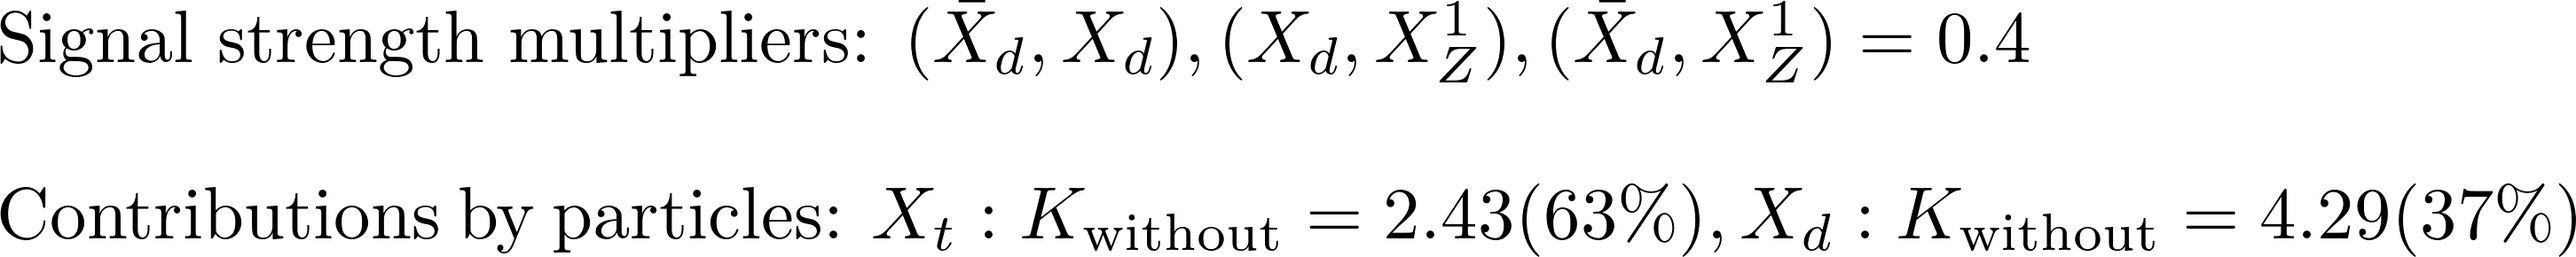
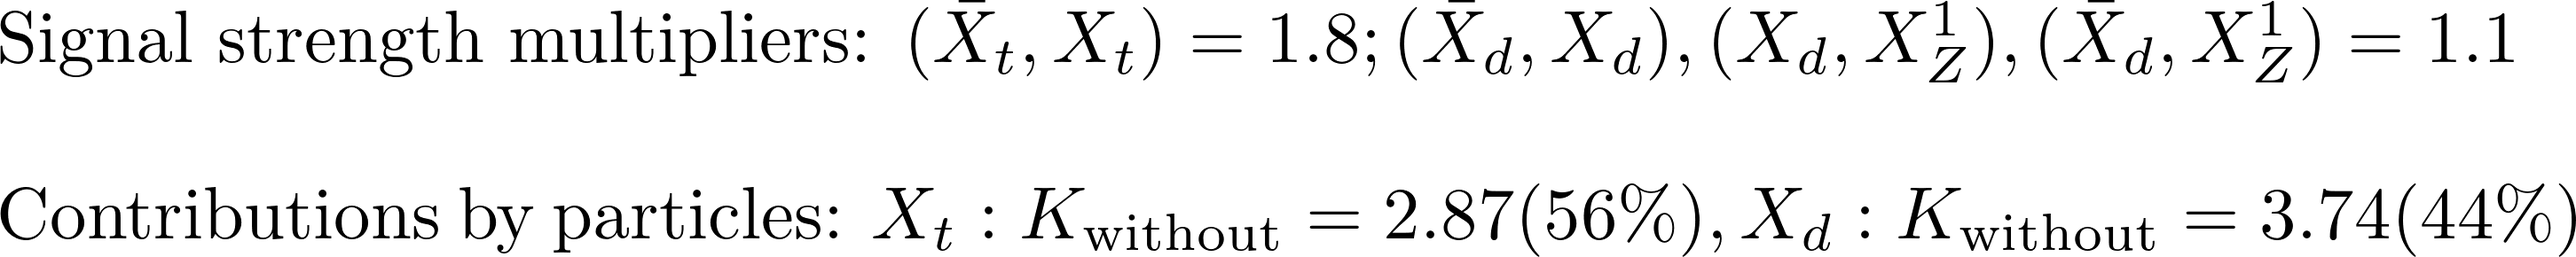
automated update by plotHiscore.py to /scratch-cbe/users/wolfgan.waltenberger/git/smodels.github.io/protomodels/2020_PioneerStudy/real6//

diff --git a/protomodels/2020_PioneerStudy/real6/index.html b/protomodels/2020_PioneerStudy/real6/index.html
@@ -1,30 +1,30 @@
 <html>
 <body>
 <center>
-<table><td><h1>Current best protomodel: K=6.96</h1><td><img height=60px src=https://smodels.github.io/pics/banner.png></table>
+<table><td><h1>Current best protomodel: K=6.77</h1><td><img height=60px src=https://smodels.github.io/pics/banner.png></table>
 </center>
-<b><a href=./hiscore.slha>ProtoModel</a> <a href=./pmodel.py>(dict)</a> produced with <a href=https://smodels.github.io/docs/Validation124>database v1.2.4</a>, combination strategy <a href=./matrix_aggressive.png>aggressive</a> in walker 46 step 660.</b> K plots for: <a href=./M1000022.png?9865417>X<sub>Z</sub><sup>1</sup></a>, <a href=./M1000006.png?9865417>X<sub>t</sub></a>, <a href=./M1000001.png?9865417>X<sub>d</sub></a>. HPD plots for: <a href=./llhd1000006.png?9865417>X<sub>t</sub></a>, <a href=./llhd1000001.png?9865417>X<sub>d</sub></a>. SSM plots for: <a href=./ssm_-1000006_1000006.png?9865417>(x&#772;<sub>t</sub>,X<sub>t</sub>)</a><br>
+<b><a href=./hiscore.slha>ProtoModel</a> <a href=./pmodel.py>(dict)</a> produced with <a href=https://smodels.github.io/docs/Validation124>database v1.2.4</a>, combination strategy <a href=./matrix_aggressive.png>aggressive</a> in walker 4 step 215.</b> K plots for: <a href=./M1000022.png?13243788>X<sub>Z</sub><sup>1</sup></a>, <a href=./M1000006.png?13243788>X<sub>t</sub></a>, <a href=./M1000001.png?13243788>X<sub>d</sub></a>. HPD plots for: <a href=./llhd1000006.png?13243788>X<sub>t</sub></a>, <a href=./llhd1000001.png?13243788>X<sub>d</sub></a>. SSM plots for: <a href=./ssm_-1000006_1000006.png?13243788>(x&#772;<sub>t</sub>,X<sub>t</sub>)</a><br>
 <table width=80%>
 <tr><td>
-<br><b>24 predictions available. Highest r values are:</b><br><ul>
-<li><a href=http://cms-results.web.cern.ch/cms-results/public-results/publications/SUS-19-006/index.html>CMS-SUS-19-006</a>:T2 r=1.30, r<sub>exp</sub>=1.09<br>
-<li><a href=http://cms-results.web.cern.ch/cms-results/public-results/publications/SUS-16-033/index.html>CMS-SUS-16-033</a>:T2 r=1.21, r<sub>exp</sub>=0.83<br>
-<li><a href=http://cms-results.web.cern.ch/cms-results/public-results/publications/SUS-19-006/index.html>CMS-SUS-19-006</a>:T2tt r=1.08, r<sub>exp</sub>=1.07<br>
-<li><a href=http://cms-results.web.cern.ch/cms-results/public-results/publications/SUS-16-036/index.html>CMS-SUS-16-036</a>:T2 r=0.89, r<sub>exp</sub>=0.74<br>
-<li><a href=http://cms-results.web.cern.ch/cms-results/public-results/publications/SUS-16-051/index.html>CMS-SUS-16-051</a>:T2tt r=0.74, r<sub>exp</sub>=0.48<br>
+<br><b>18 predictions available. Highest r values are:</b><br><ul>
+<li><a href=http://cms-results.web.cern.ch/cms-results/public-results/publications/SUS-19-006/index.html>CMS-SUS-19-006</a>:T2 r=1.30, r<sub>exp</sub>=1.13<br>
+<li><a href=http://cms-results.web.cern.ch/cms-results/public-results/publications/SUS-19-006/index.html>CMS-SUS-19-006</a>:T2tt r=1.30, r<sub>exp</sub>=1.27<br>
+<li><a href=http://cms-results.web.cern.ch/cms-results/public-results/publications/SUS-16-033/index.html>CMS-SUS-16-033</a>:T2 r=1.10, r<sub>exp</sub>=0.82<br>
+<li><a href=http://cms-results.web.cern.ch/cms-results/public-results/publications/SUS-16-036/index.html>CMS-SUS-16-036</a>:T2 r=0.79, r<sub>exp</sub>=0.77<br>
+<li><a href=https://atlas.web.cern.ch/Atlas/GROUPS/PHYSICS/PAPERS/SUSY-2016-15/>ATLAS-SUSY-2016-15</a>:T2tt r=0.65, r<sub>exp</sub>=N/A<br>
 </ul>
 <td><br><b>K values without analyses: (contribution)</b><br>
 <ul>
-<li> <a href=https://twiki.cern.ch/twiki/bin/view/CMSPublic/PhysicsResultsSUS13012>CMS-SUS-13-012</a>: 3.46 (15%)
-<li> <a href=http://cms-results.web.cern.ch/cms-results/public-results/publications/SUS-16-050/index.html>CMS-SUS-16-050</a>: 3.46 (15%)
-<li> <a href=https://atlas.web.cern.ch/Atlas/GROUPS/PHYSICS/PAPERS/SUSY-2013-02/>ATLAS-SUSY-2013-02</a>: 3.37 (15%)
-<li> <a href=https://atlas.web.cern.ch/Atlas/GROUPS/PHYSICS/PAPERS/SUSY-2016-16/>ATLAS-SUSY-2016-16</a>: 1.22 (24%)
-<li> <a href=https://atlas.web.cern.ch/Atlas/GROUPS/PHYSICS/PAPERS/SUSY-2016-07/>ATLAS-SUSY-2016-07</a>: -0.78 (32%)
-<td><img width=600px src=./texdoc.png?1602865417>
-<br><font size=-1>Last updated: Fri Oct 16 18:23:37 2020</font>
+<li> <a href=https://twiki.cern.ch/twiki/bin/view/CMSPublic/PhysicsResultsSUS13012>CMS-SUS-13-012</a>: 3.34 (15%)
+<li> <a href=http://cms-results.web.cern.ch/cms-results/public-results/publications/SUS-16-050/index.html>CMS-SUS-16-050</a>: 3.34 (15%)
+<li> <a href=https://atlas.web.cern.ch/Atlas/GROUPS/PHYSICS/PAPERS/SUSY-2013-02/>ATLAS-SUSY-2013-02</a>: 3.29 (15%)
+<li> <a href=https://atlas.web.cern.ch/Atlas/GROUPS/PHYSICS/PAPERS/SUSY-2016-16/>ATLAS-SUSY-2016-16</a>: 1.13 (24%)
+<li> <a href=https://atlas.web.cern.ch/Atlas/GROUPS/PHYSICS/PAPERS/SUSY-2016-07/>ATLAS-SUSY-2016-07</a>: -0.87 (32%)
+<td><img width=600px src=./texdoc.png?1606243788>
+<br><font size=-1>Last updated: Tue Nov 24 19:49:48 2020</font>
 </table><table style="width:80%">
-<td width=45%><img height=580px src=./ruler.png?1602865417><td width=55%><img height=380px src=./decays.png?1602865417>
-<font size=-3><iframe type="text/html" height="220px" width="100%s" frameborder="0" src="./rawnumbers.html?1602865417"></iframe></font>
+<td width=45%><img height=580px src=./ruler.png?1606243788><td width=55%><img height=380px src=./decays.png?1606243788>
+<font size=-3><iframe type="text/html" height="220px" width="100%s" frameborder="0" src="./rawnumbers.html?1606243788"></iframe></font>
 </table>
 </body>
 </html>

diff --git a/protomodels/2020_PioneerStudy/real6/rawnumbers.html b/protomodels/2020_PioneerStudy/real6/rawnumbers.html
@@ -4,6 +4,6 @@
 <tr><td><a href=https://atlas.web.cern.ch/Atlas/GROUPS/PHYSICS/PAPERS/SUSY-2013-02/>ATLAS-SUSY-2013-02</a></td><td>em</td> <td>SR6jtp</td><td>T2</td><td>6</td><td>4.9 +/- 1.6</td><td style="text-align:right">0.4 &sigma;</td><td style="text-align:right">X<sub>d</sub></td></tr>
 <tr><td><a href=https://atlas.web.cern.ch/Atlas/GROUPS/PHYSICS/PAPERS/SUSY-2016-07/>ATLAS-SUSY-2016-07</a></td><td>em</td> <td>2j_Meff_1200</td><td>T2</td><td>611</td><td>526 +/- 31</td><td style="text-align:right">2.2 &sigma;</td><td style="text-align:right">X<sub>d</sub></td></tr>
 <tr><td><a href=https://atlas.web.cern.ch/Atlas/GROUPS/PHYSICS/PAPERS/SUSY-2016-16/>ATLAS-SUSY-2016-16</a></td><td>em</td> <td>tN_high</td><td>T2tt</td><td>8</td><td>3.8 +/- 1</td><td style="text-align:right">1.9 &sigma;</td><td style="text-align:right">X<sub>t</sub></td></tr>
-<tr><td><a href=https://twiki.cern.ch/twiki/bin/view/CMSPublic/PhysicsResultsSUS13012>CMS-SUS-13-012</a></td><td>ul</td> <td>-</td><td>T2</td><td> 31.5 fb </td><td> 20.6 fb</td><td style="text-align:right">1.0 &sigma;</td><td style="text-align:right">X<sub>d</sub></td></tr>
-<tr><td><a href=http://cms-results.web.cern.ch/cms-results/public-results/publications/SUS-16-050/index.html>CMS-SUS-16-050</a></td><td>ul</td> <td>-</td><td>T2tt</td><td> 4.6 fb </td><td> 2.5 fb</td><td style="text-align:right">1.7 &sigma;</td><td style="text-align:right">X<sub>t</sub></td></tr>
+<tr><td><a href=https://twiki.cern.ch/twiki/bin/view/CMSPublic/PhysicsResultsSUS13012>CMS-SUS-13-012</a></td><td>ul</td> <td>-</td><td>T2</td><td> 20.6 fb </td><td> 12.6 fb</td><td style="text-align:right">1.3 &sigma;</td><td style="text-align:right">X<sub>d</sub></td></tr>
+<tr><td><a href=http://cms-results.web.cern.ch/cms-results/public-results/publications/SUS-16-050/index.html>CMS-SUS-16-050</a></td><td>ul</td> <td>-</td><td>T2tt</td><td> 4.7 fb </td><td> 2.6 fb</td><td style="text-align:right">1.5 &sigma;</td><td style="text-align:right">X<sub>t</sub></td></tr>
 </table>

diff --git a/protomodels/2020_PioneerStudy/real6/pmodel.py b/protomodels/2020_PioneerStudy/real6/pmodel.py
@@ -1,1 +1,1 @@
-{'masses': {1000022: 103.219, 1000001: 714.35, 1000006: 1152.509}, 'ssmultipliers': {(1000022, 1000022): 0.015, (1000001, 1000001): 0.396, (-1000001, 1000001): 0.396, (-1000001, -1000001): 0.396, (1000001, 1000022): 0.396, (-1000001, 1000022): 0.396, (1000006, 1000006): 0.998, (-1000006, 1000006): 0.998, (-1000006, -1000006): 0.998, (1000006, 1000022): 0.998, (-1000006, 1000022): 0.998, (1000001, 1000006): 0.998, (-1000006, 1000001): 0.998, (-1000001, 1000006): 0.998, (-1000006, -1000001): 0.998}, 'decays': {1000022: {}, 1000001: {(1000022, 1): 1.0}, 1000006: {(1000022, 6): 1.0}}, 'timestamp': 'Fri Oct 16 18:23:04 2020', 'Z': 3.242, 'K': 6.958, 'walkerid': 46, 'step': 660, 'codever': '1.0', 'dbver': '1.2.4'}
+{'masses': {1000022: 305.215, 1000006: 1215.171, 1000001: 880.436}, 'ssmultipliers': {(1000022, 1000022): 0.112, (1000006, 1000006): 1.828, (-1000006, 1000006): 1.828, (-1000006, -1000006): 1.828, (1000006, 1000022): 1.828, (-1000006, 1000022): 1.828, (1000001, 1000001): 1.06, (-1000001, 1000001): 1.06, (-1000001, -1000001): 1.06, (1000001, 1000022): 1.06, (-1000001, 1000022): 1.06, (1000001, 1000006): 1.06, (-1000001, 1000006): 1.06, (-1000006, 1000001): 1.06, (-1000006, -1000001): 1.06}, 'decays': {1000022: {}, 1000006: {(1000022, 6): 1.0}, 1000001: {(1000022, 1): 1.0}}, 'timestamp': 'Tue Nov 24 19:49:30 2020', 'Z': 3.212, 'K': 6.766, 'walkerid': 4, 'step': 215, 'codever': '1.0', 'dbver': '1.2.4'}
